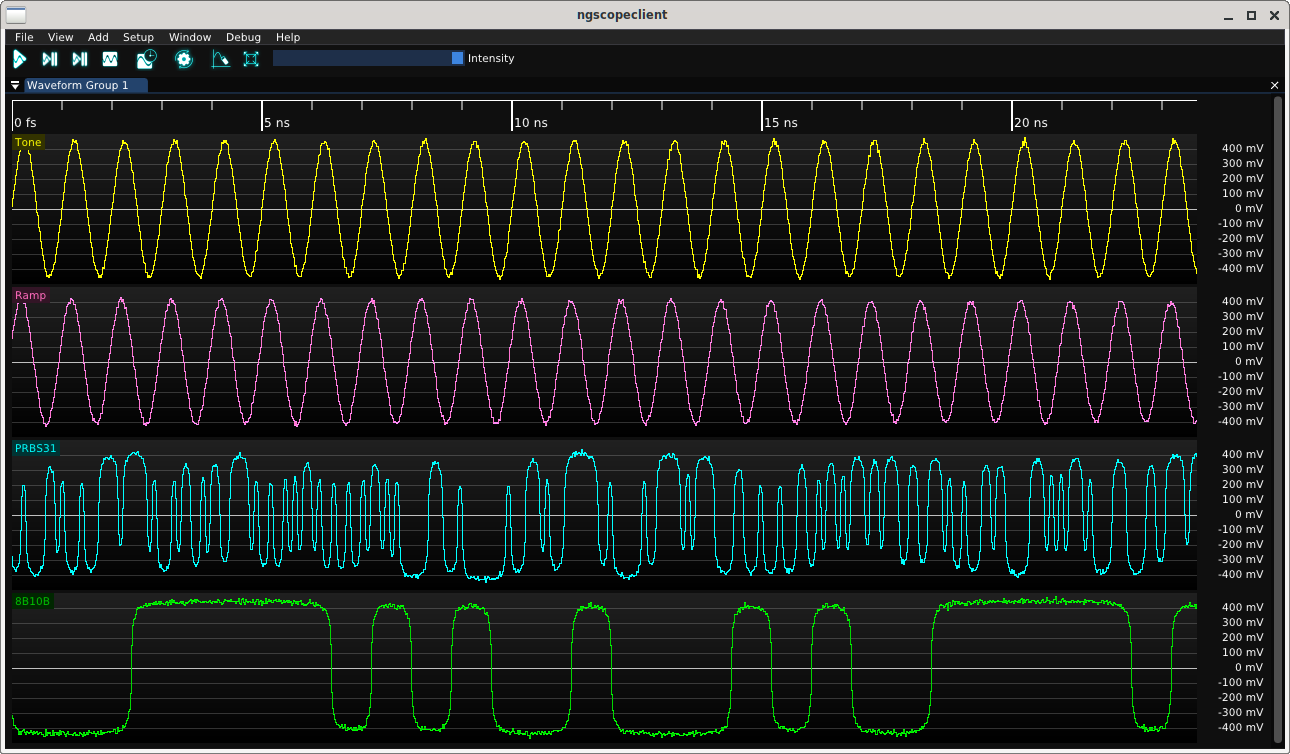
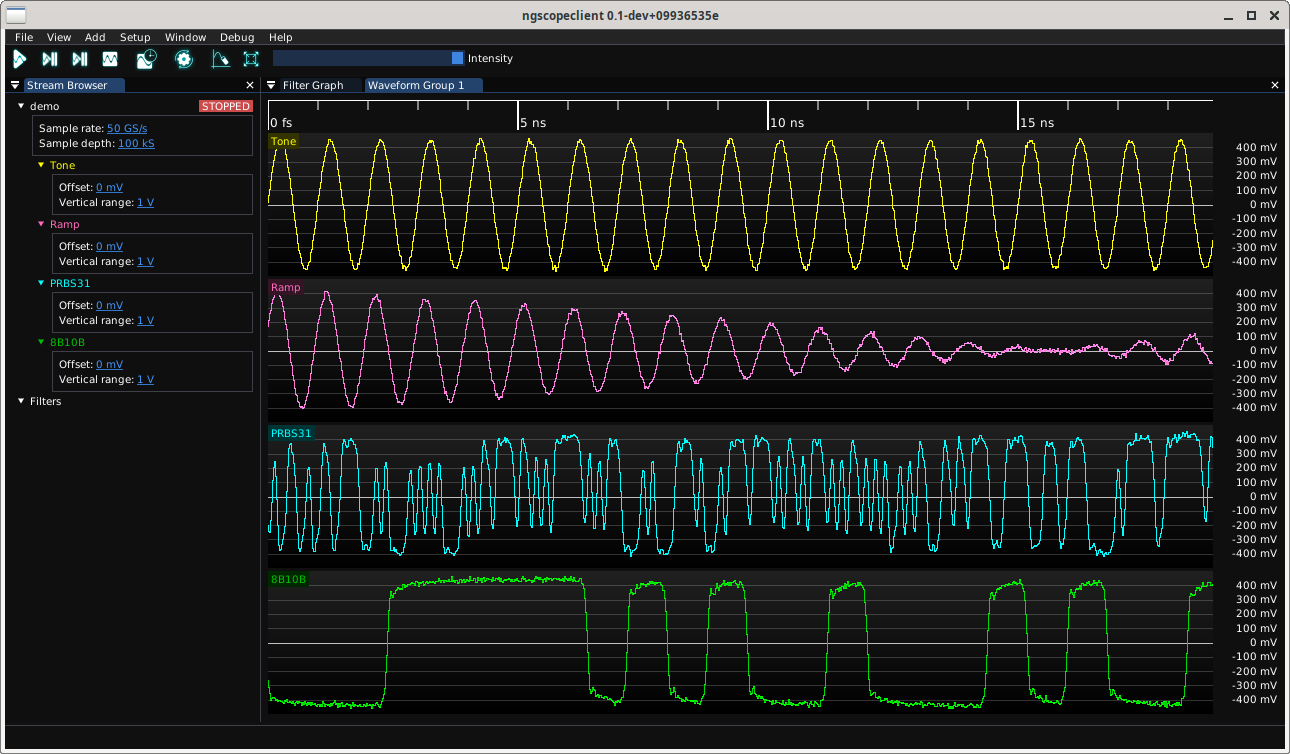
Updated a bunch of screenshots to match current application look

diff --git a/section-funcgen-drivers.tex b/section-funcgen-drivers.tex
@@ -6,19 +6,7 @@ This chapter describes all of the available drivers for standalone function gene
 Function generators which are part of an oscilloscope are described in the \hyperref[sec:scope-drivers]{Oscilloscope
 Drivers} section.
 
-\section{Rigol}
-
-\begin{tabularx}{16cm}{lllX}
-\thickhline
-\textbf{Device Family} & \textbf{Driver} & \textbf{Transport} & \textbf{Notes} \\
-\thickhline
-DG4000 series & rigol\_awg & lan & Only tested via lan transport, but USBTMC and serial are available too\\
-\thickhline
-\end{tabularx}
-
-\subsection{rigol\_awg}
-
-This driver supports all DG4000 series function / arbitrary waveform generators.
+%%%%%%%%%%%%%%%%%%%%%%%%%%%%%%%%%%%%%%%%%%%%%%%%%%%%%%%%%%%%%%%%%%%%%%%%%%%%%%%%%%%%%%%%%%%%%%%%%%%%%%%%%%%%%%%%%%%%%%%%
 
 \section{Owon}
 
@@ -38,3 +26,34 @@ It has been tested on an Owon XDG 2035.
 
 The default communication port for lan is 3000.
 
+%%%%%%%%%%%%%%%%%%%%%%%%%%%%%%%%%%%%%%%%%%%%%%%%%%%%%%%%%%%%%%%%%%%%%%%%%%%%%%%%%%%%%%%%%%%%%%%%%%%%%%%%%%%%%%%%%%%%%%%%
+
+\section{Rigol}
+
+\begin{tabularx}{16cm}{lllX}
+\thickhline
+\textbf{Device Family} & \textbf{Driver} & \textbf{Transport} & \textbf{Notes} \\
+\thickhline
+DG4000 series & rigol\_awg & lan & Only tested via lan transport, but USBTMC and serial are available too\\
+\thickhline
+\end{tabularx}
+
+\subsection{rigol\_awg}
+
+This driver supports all DG4000 series function / arbitrary waveform generators.
+
+%%%%%%%%%%%%%%%%%%%%%%%%%%%%%%%%%%%%%%%%%%%%%%%%%%%%%%%%%%%%%%%%%%%%%%%%%%%%%%%%%%%%%%%%%%%%%%%%%%%%%%%%%%%%%%%%%%%%%%%%
+
+\section{Siglent}
+
+\begin{tabularx}{16cm}{lllX}
+\thickhline
+\textbf{Device Family} & \textbf{Driver} & \textbf{Transport} & \textbf{Notes} \\
+\thickhline
+SDG2000X series & siglent\_awg & lan & Only tested via lan transport, but USBTMC is available too\\
+\thickhline
+\end{tabularx}
+
+\subsection{siglent\_awg}
+
+This driver supports the SDG2000X series and possibly higher end models as well.

diff --git a/section-waveformgroups.tex b/section-waveformgroups.tex
@@ -10,7 +10,7 @@ the first channel will be enabled and displayed.
 
 \begin{figure}[h]
 \centering
-\includegraphics[width=13cm]{ng-images/overview.png}
+\bigimage{ng-images/overview.png}
 \caption{Top level ngscopeclient window with a single waveform group}
 \label{single-group}
 \end{figure}
@@ -39,14 +39,14 @@ For example, dropping the channel on the right side of the window produces the l
 
 \begin{figure}[h]
 \centering
-\includegraphics[width=13cm]{ng-images/split-overlays.png}
+\bigimage{ng-images/split-overlays.png}
 \caption{Overlays showing drag-and-drop locations for splitting waveform groups}
 \label{split-overlays}
 \end{figure}
 
 \begin{figure}[h]
 \centering
-\includegraphics[width=13cm]{ng-images/split-right.png}
+\bigimage{ng-images/split-right.png}
 \caption{Result of dropping a waveform to the right side split area}
 \label{split-right}
 \end{figure}
@@ -58,7 +58,7 @@ existing groups as desired (Fig. \ref{complex-ui}).
 
 \begin{figure}[h]
 \centering
-\includegraphics[width=13cm]{ng-images/complex-ui.png}
+\bigimage{ng-images/complex-ui.png}
 \caption{Example of complex window layout with multiple tabs, splitters between docked waveform groups, and a group in
 a floating window}
 \label{complex-ui}

diff --git a/ngscopeclient-manual.tex b/ngscopeclient-manual.tex
@@ -102,16 +102,16 @@
 \raggedbottom
 
 \include{section-intro}
-\include{section-ng-legal}
-\include{section-ng-gettingstarted}
+\include{section-legal}
+\include{section-gettingstarted}
 \include{section-tutorials}
-\include{section-ng-mainwindow}
+\include{section-mainwindow}
 \include{section-dialogs}
 \include{section-workspaces}
-\include{section-ng-waveformgroups}
-\include{section-ng-waveformviews}
-\include{section-ng-history}
-\include{section-ng-grapheditor}
+\include{section-waveformgroups}
+\include{section-waveformviews}
+\include{section-history}
+\include{section-grapheditor}
 \include{section-transports}
 \include{section-bert-drivers}
 \include{section-funcgen-drivers}
